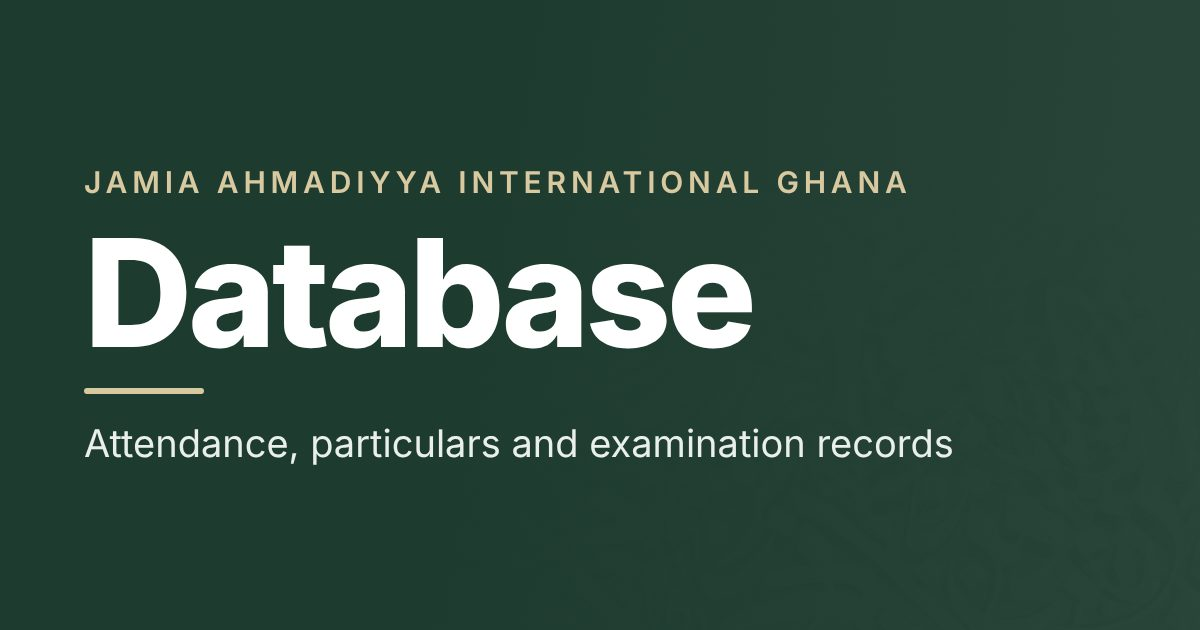
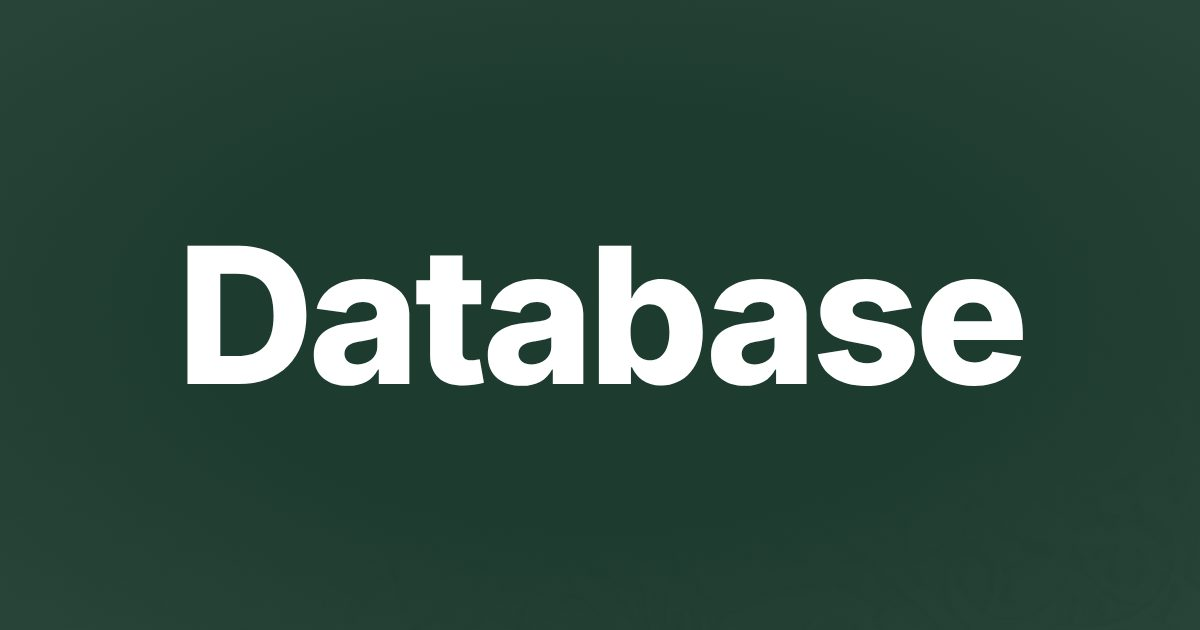
Link preview: just Database
Claude-Session: https://claude.ai/code/session_01Q7iXSmjsfaRntbi5PTNcge

Changed region(s): [[0.0617, 0.3619, 0.8633, 0.6333], [0.0617, 0.6937, 0.8017, 0.7238], [0.0617, 0.2714, 0.7708, 0.3016]]

diff --git a/sw.js b/sw.js
@@ -1,5 +1,5 @@
 // Minimal service worker: lets the app shell open without a connection (data itself is cached by Firestore).
-const CACHE = "jamia-shell-v45";
+const CACHE = "jamia-shell-v46";
 const SHELL = ["./", "index.html", "app.js", "core.js", "pdf.js", "particulars.js", "exams.js", "sigdata.js", "bg.jpg", "ui.js", "firebase-config.js", "ui.js", "icon-192.png"];
 self.addEventListener("install", (e) => { e.waitUntil(caches.open(CACHE).then((c) => c.addAll(SHELL)).then(() => self.skipWaiting())); });
 self.addEventListener("activate", (e) => { e.waitUntil(caches.keys().then((ks) => Promise.all(ks.filter((k) => k !== CACHE).map((k) => caches.delete(k)))).then(() => self.clients.claim())); });

diff --git a/index.html b/index.html
@@ -13,11 +13,9 @@
 <link rel="apple-touch-icon" href="icon-180.png">
 <link rel="icon" href="icon-192.png">
 <title>Database</title>
-<meta name="description" content="Attendance, particulars and examination records">
 <meta property="og:type" content="website">
 <meta property="og:site_name" content="Database">
 <meta property="og:title" content="Database">
-<meta property="og:description" content="Jamia Ahmadiyya International Ghana">
 <meta property="og:url" content="https://jaidata.org/">
 <meta property="og:image" content="https://jaidata.org/preview.jpg">
 <meta property="og:image:type" content="image/jpeg">
